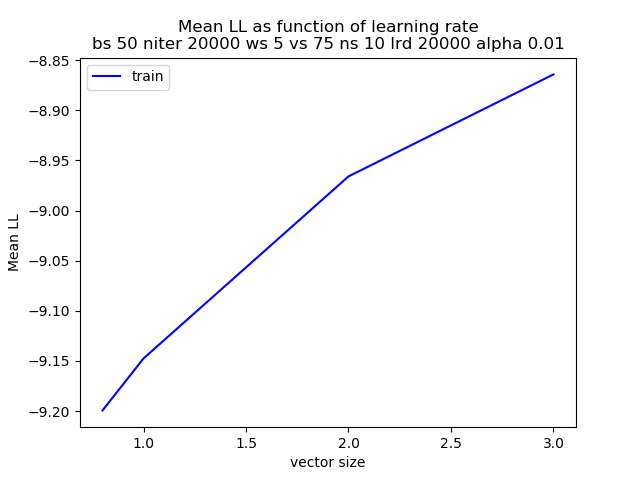
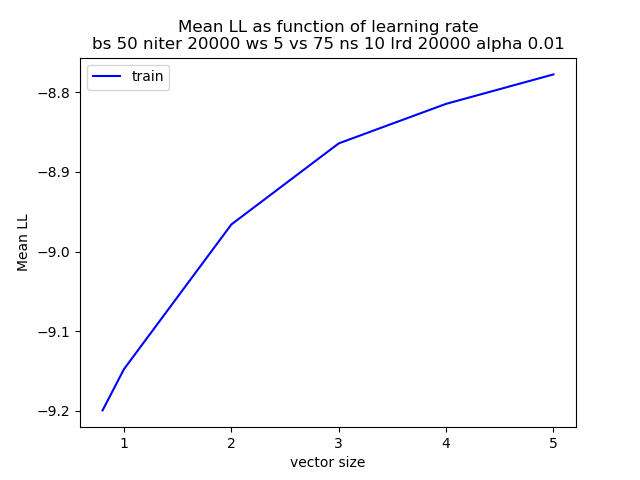
create graphs

diff --git a/deliverables.py b/deliverables.py
@@ -44,7 +44,7 @@ if __name__ == '__main__':
     d = [10, 75, 150, 225, 300]
     deliverable_2(d, variablle_d_lls, variable_d_training_times)
 
-    varable_lr_lls = [-8.864296363903897, -8.965983876187982, -9.14743160137451, -9.199273701250165]
-    variable_lr_training_times = [5568, 5555, 5584, 5600]
-    lrs = [3, 2, 1, 0.8]
+    varable_lr_lls = [-8.777760601665326, -8.814701232499674, -8.864296363903897, -8.965983876187982, -9.14743160137451, -9.199273701250165]
+    variable_lr_training_times = [5563, 5561, 5568, 5555, 5584, 5600]
+    lrs = [5, 4, 3, 2, 1, 0.8]
     deliverable_3(lrs, varable_lr_lls, variable_lr_training_times)

diff --git a/readme.md b/readme.md
@@ -1,0 +1,19 @@
+Word Embedding using skip gram and negative samplign
+
+In order to train a model you should run the main.py file with the following flags and args:
+	example - python main.py -lr 0.3 -bs 50 -niter 20000 -ws 2 -vs 50 -ns 10 -lrd 3000 -alpha 1 -vi 1000
+
+	lr - learning rate for the SGD
+	bs - batch size for the SGD
+	niter - number of iterations of the sgd algorithm
+	ws - window size to create context\input pairs for the skip gram
+	vs - The dimension of the embedding vectors
+	ns - number of negative sampling examples for each pair Log Likelihood
+	lrd - The number of iterations to make before reducing the lr by 50%.
+	alpha - Constant to calculate the unigram distribution for the random sampling of pairs during the training.
+	vi - validation interval. each $'vi' iterations, the algorithm will calculate the mean log likelihood on the train and test sets.
+
+each time the main.py is ran, a directory with all the logs and deliverables is created and saved in the /logs directory.
+
+Deliverables which are created with scores of multiples models, can be created by running the deliverabels.py script with no args.
+
